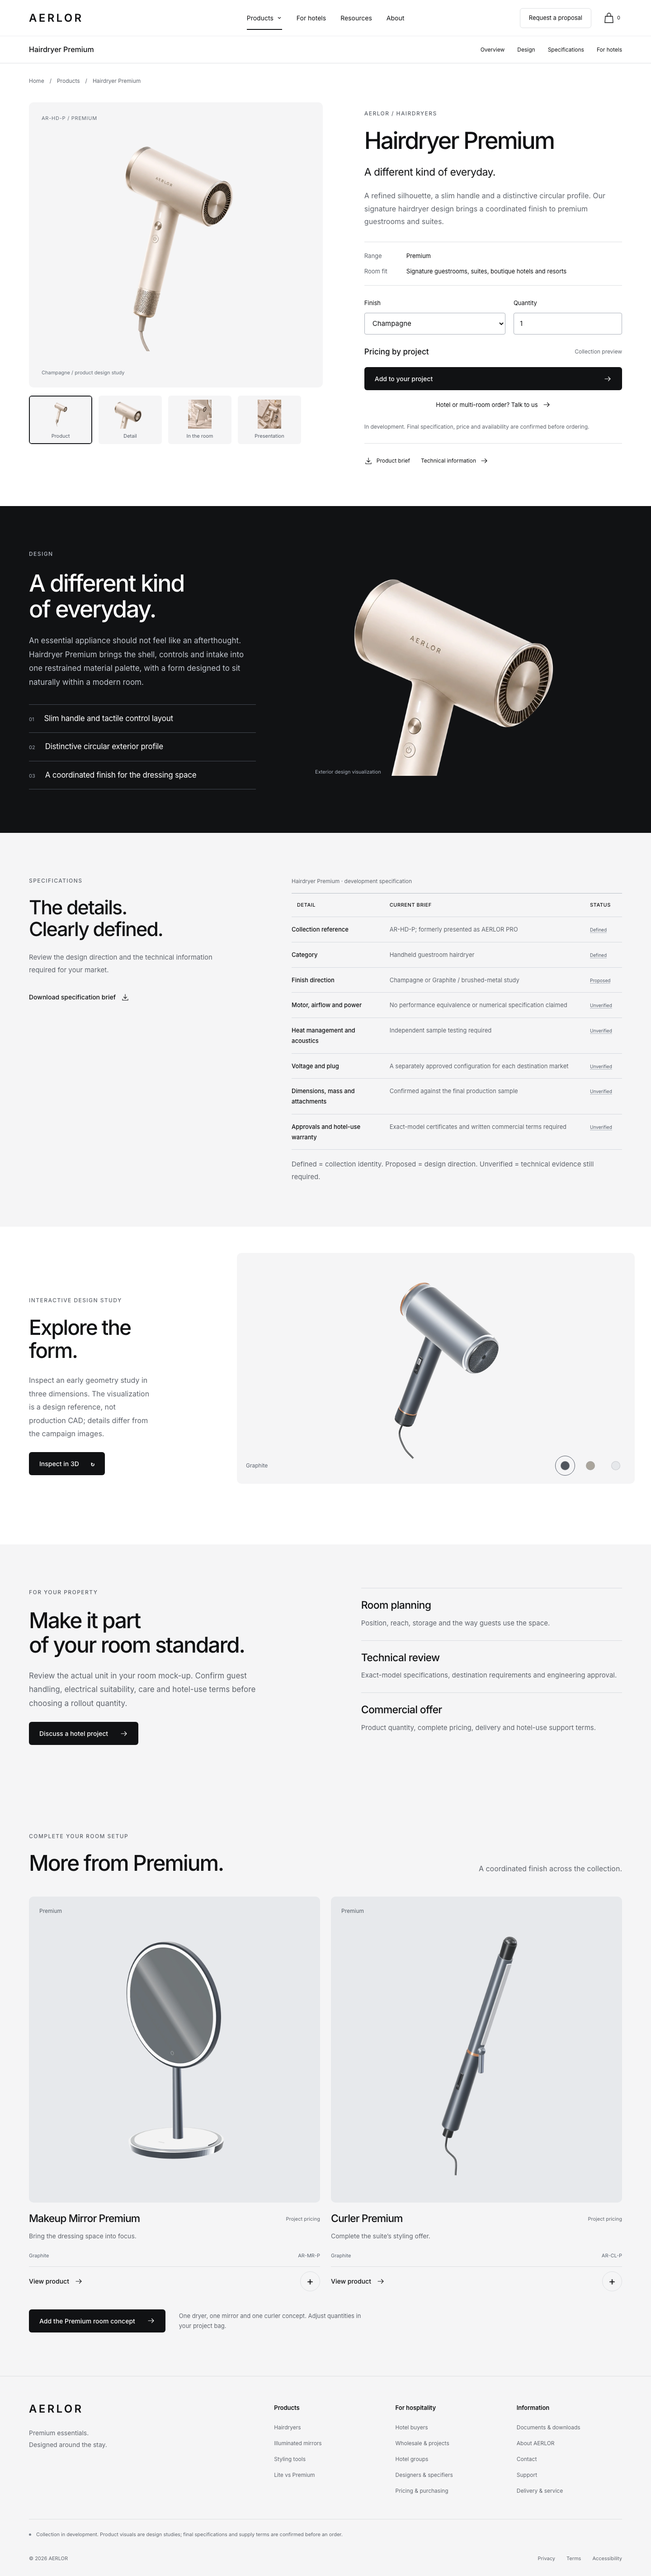
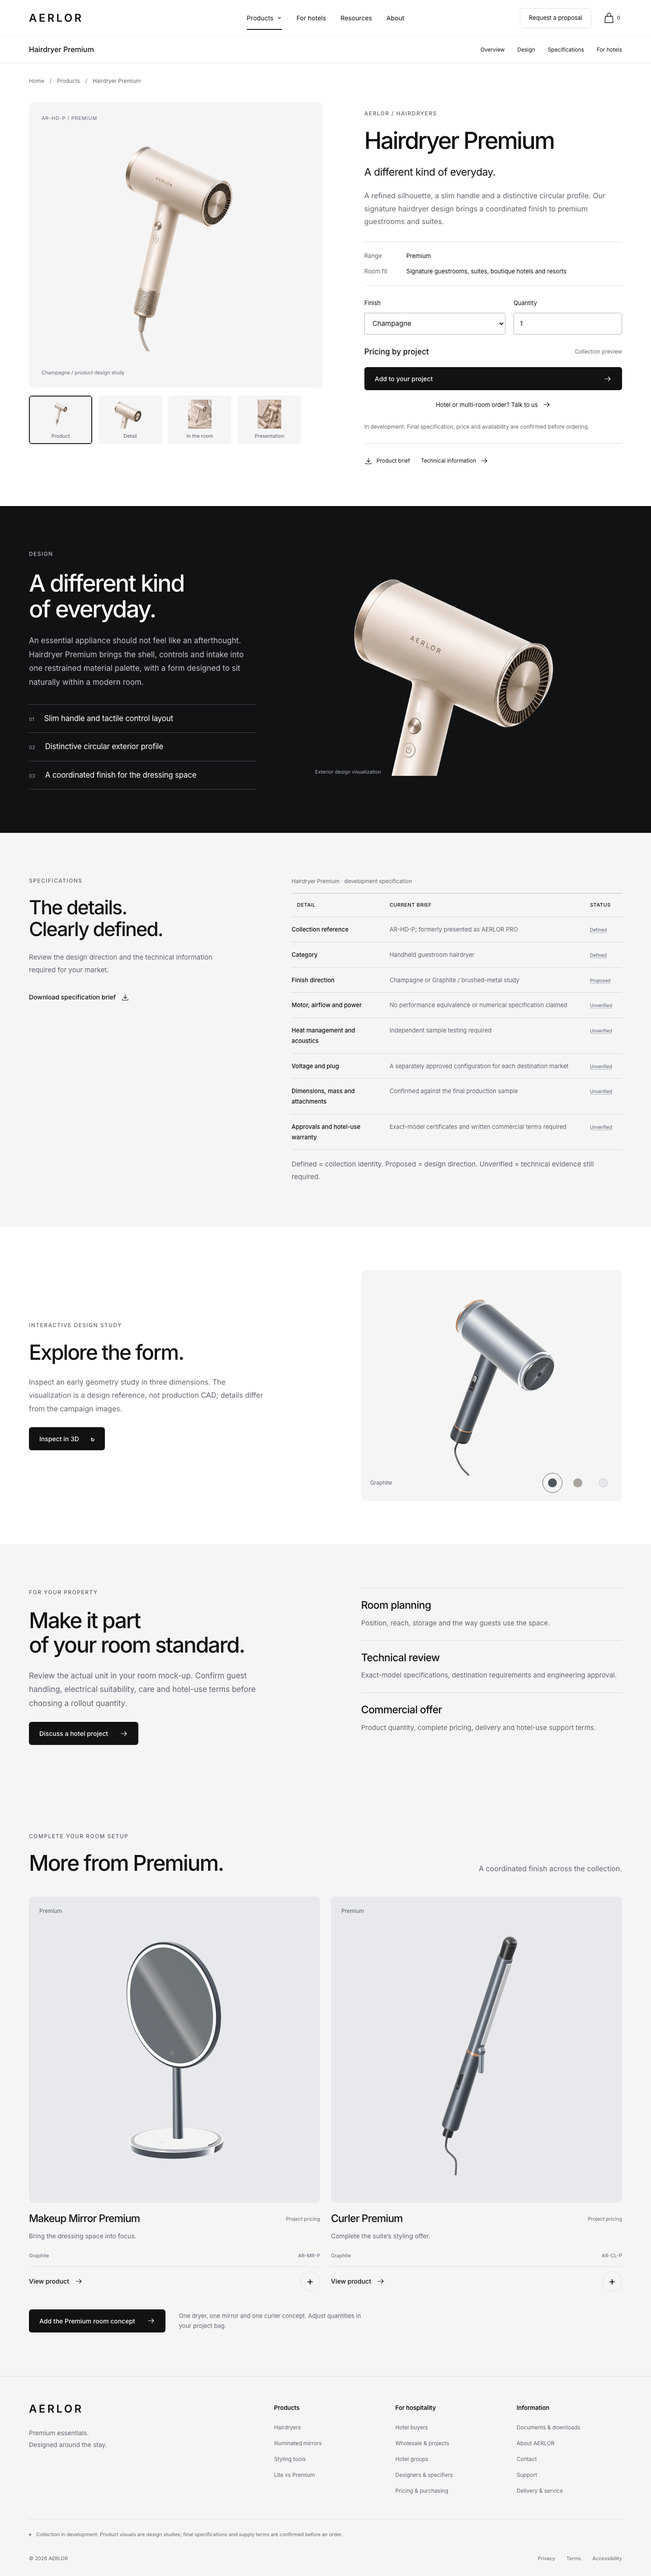
fix: verify tablet layouts and synchronize R5 release evidence

Changed region(s): [[0.0312, 0.4976, 0.2188, 0.5909], [0.5938, 0.4976, 0.8438, 0.5598], [0.8438, 0.5598, 0.875, 0.5909]]

diff --git a/src/premium-tech.css b/src/premium-tech.css
@@ -12,3 +12,23 @@
 @media(prefers-reduced-motion:reduce){.r5-gallery .product-gallery>img{transition:none}}
 
 .r5-hotels-hero .hero-actions .text-link{color:#111214}@media(max-width:760px){.r5-hero h1{font-size:46px;line-height:1.07}.r5-hero-copy{padding-top:42px}.r5-hero-art{height:415px}.r5-hero-art>.r5-signature{height:438px}}@media(max-width:370px){.r5-hero h1{font-size:39px}.r5-hero-art{height:380px}.r5-hero-art>.r5-signature{height:400px}}
+
+/* Intrinsic aspect ratios must not widen grid tracks at intermediate widths. */
+.r5-collection .category-image{width:100%;min-width:0;aspect-ratio:auto}
+.r5-model-study{grid-template-columns:minmax(0,1fr) minmax(0,1fr)}
+.r5-model-study>div{min-width:0}
+.r5-model-study .hero-art{width:100%;max-width:100%;min-width:0}
+@media(min-width:761px) and (max-width:960px){
+ .r5-hero{grid-template-columns:1fr;gap:0;padding-top:0;padding-bottom:0}
+ .r5-hero-copy{padding:54px 0 0;max-width:640px}
+ .r5-hero-art{height:470px;width:100%}
+ .r5-hero-art>.r5-signature{height:490px}
+ .r5-art-label{left:8px;right:8px;flex-direction:row;align-items:center}
+ .r5-collection .category-image{height:265px}
+ .r5-collection .category-card:first-child .category-image>img{padding:10px}
+ .r5-collection .category-copy h3{font-size:22px}
+ .r5-model-study{grid-template-columns:1fr;gap:35px}
+ .r5-model-study .hero-art{height:500px;min-height:500px}
+}
+@media(max-width:760px){.r5-model-study{grid-template-columns:1fr}}
+.r5-model-study .hero-art{inset:auto;transform:none}

diff --git a/tests/storefront.spec.ts b/tests/storefront.spec.ts
@@ -81,3 +81,8 @@ test('fallback typography stays usable when external fonts are blocked',async({p
  test.setTimeout(90000);await page.route('https://fonts.googleapis.com/**',route=>route.abort());await page.route('https://fonts.gstatic.com/**',route=>route.abort());
  for(const path of ['hospitality/groups/','products/makeup-mirror-premium/','hospitality/wholesale/','pricing/']){await navigate(page,path);await expect(page.locator('h1')).toBeVisible();expect(await page.evaluate(()=>document.documentElement.scrollWidth<=innerWidth),path).toBe(true);}
 });
+
+
+test('homepage, product and hotel journeys fit intermediate tablet widths',async({page})=>{
+ test.setTimeout(120000);for(const width of [768,820,1024]){await page.setViewportSize({width,height:1024});for(const path of ['', 'products/hairdryer-premium/','hospitality/','collection/']){await navigate(page,path);expect(await page.evaluate(()=>document.documentElement.scrollWidth<=innerWidth),`${path} at ${width}px`).toBe(true);}}
+});

diff --git a/README.md b/README.md
@@ -52,7 +52,7 @@ TEST_URL=https://aerlor.vercel.app/ EXPECTED_COMMIT=<40-character-sha> npm run v
 
 ## Design and documents
 
-The new system starts with the native Paper direction and tokens, then reconciles the final browser layouts into native editable artboards. [The R4 handoff](design/precision-r4/README.md) contains board IDs, native JSX references and screenshots. R2 native references remain archived in `design/paper/native/`; they are not the active visual direction.
+The current R5 page contains five editable native compositions for the homepage, flagship product and hotel-buyer journey. [The R5 handoff](design/precision-r5/README.md) records the actual board IDs, source-safe JSX references and screenshots. R4 contributes the shared native token foundations; R2/R4 compositions remain historical references rather than the active release direction.
 
 ```sh
 # With the local dev server running, regenerate missing original studio PNGs:
@@ -67,7 +67,7 @@ The PDF workflow uses authored HTML, `marketing/print.css`, Playwright, `pdftopp
 
 ## Verification scope
 
-R4 local verification: **55 Chromium checks and 55 WebKit checks passed**, plus one intentional desktop duplicate of a mobile-only navigation test skipped per engine. Coverage includes all 33 routes, 320-pixel reflow, fonts unavailable, product selection, quote drafts, download integrity, inaccessible services, optional 3D, keyboard controls and automated accessibility rules. Server/domain tests cover payment and inquiry invariants using controlled provider fixtures. Native design review and actual public deployment proof are separate checks.
+R5 local verification is recorded in `design/previews/r5/local-validation.json`. Each browser suite intentionally skips the desktop duplicate of the mobile-only navigation test. Coverage includes all 33 routes, 320-pixel reflow, fonts unavailable, product selection, quote drafts, download integrity, inaccessible services, optional 3D, keyboard controls and automated accessibility rules. Server/domain tests cover payment and inquiry invariants using controlled provider fixtures. Native design review and actual public deployment proof are separate checks.
 
 ## Deployment
 
@@ -84,7 +84,8 @@ src/catalog.json                 Product concepts and specification status
 src/storefront.ts                 Bag, filters, forms and checkout handoff
 src/main.ts, studio-models.ts     Optional product inspection and original models
 shared/, server/, api/            Existing commerce/inquiry rules and adapters
-design/precision-r4/              Native designs, JSX, screenshots and decisions
+design/precision-r5/              Current native designs, JSX, screenshots and decisions
+design/precision-r4/tokens.css    Shared native precision token lineage
 marketing/, public/documents/     Ten versioned guides and product briefs
 ```
 

diff --git a/docs/session-handoffs/04-brand-website.md b/docs/session-handoffs/04-brand-website.md
@@ -44,6 +44,6 @@ Founder direction: replace the cosmetic/editorial feel with a premium technology
 
 The founder requested a substantial departure from the beauty/editorial identity. Current implementation branch: `work/site/premium-tech-r5`. Five native R5 design boards are on Paper page `p-6-0`; `design/precision-r5/README.md` records scope, actual IDs, image provenance and the relationship to the shared R4 tokens.
 
-The 33-route site now has the product-led homepage, a separate hotel-buyer journey, improved product galleries, direct project calls to action and a neutral premium-tech design system. The ten PDFs have been refreshed in that system. Local Chromium and WebKit runs each passed 57 tests with one intentional mobile-only duplicate skipped; the server/domain fixture suite passed 39 tests. Live release identity must be checked against `build-info.json`, not inferred from this handoff.
+The 33-route site now has the product-led homepage, a separate hotel-buyer journey, improved product galleries, direct project calls to action and a neutral premium-tech design system. The ten PDFs have been refreshed in that system. Local Chromium and WebKit runs each passed 59 tests with one intentional mobile-only duplicate skipped; the server/domain fixture suite passed 39 tests. Live release identity must be checked against `build-info.json`, not inferred from this handoff.
 
 PR #23 imagery was integrated from exact source `4d80d3d781a9e992c7922e3f66c38adc18fa486b`; its conflicting legacy CSS/generator changes were not. Do not merge the old visual direction over this rebuild. Preserve independent assurance, sourcing and finance work. Commercial activation remains a separate prerequisite: no paid orders, production claims or automated email delivery were enabled by this design release.

diff --git a/DEPLOYMENT.md b/DEPLOYMENT.md
@@ -54,4 +54,4 @@ No domain, paid service, merchant account or inventory is purchased by this depl
 
 ## R5 product-view acceptance
 
-The homepage must first report `data-scene="static"` without downloading the 3D module. The deployment verifier explicitly requests 3D on desktop, then checks the live canvas. Other widths use the original image. This design release keeps existing checkout and direct-submission gates unchanged. The Paper design target is page `p-6-0`; the active palette and typography are exported to `src/precision-tokens.css`.
+The homepage uses the original static flagship artwork and has no 3D canvas. The optional early-geometry viewer lives on `/products/hairdryer-premium/`; the release verifier explicitly opens it and checks the gallery and live canvas. The site is also checked at desktop, tablet and narrow phone widths. Existing checkout and direct-submission gates remain unchanged. The current native Paper page is `p-6-0`; shared precision tokens remain in `src/precision-tokens.css`.
